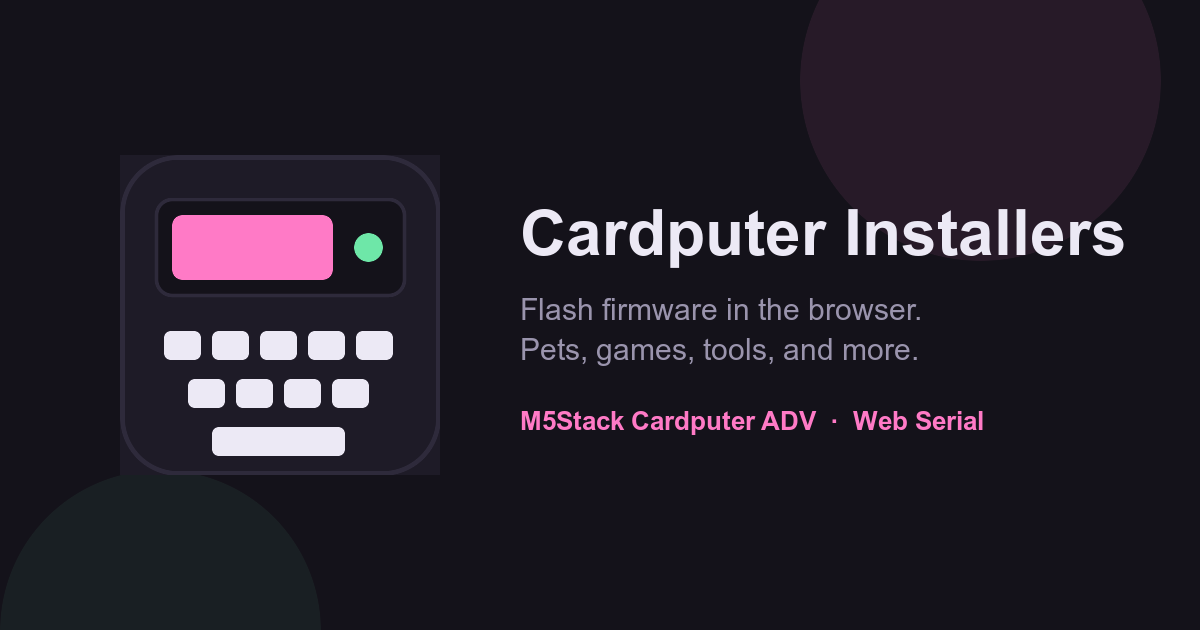
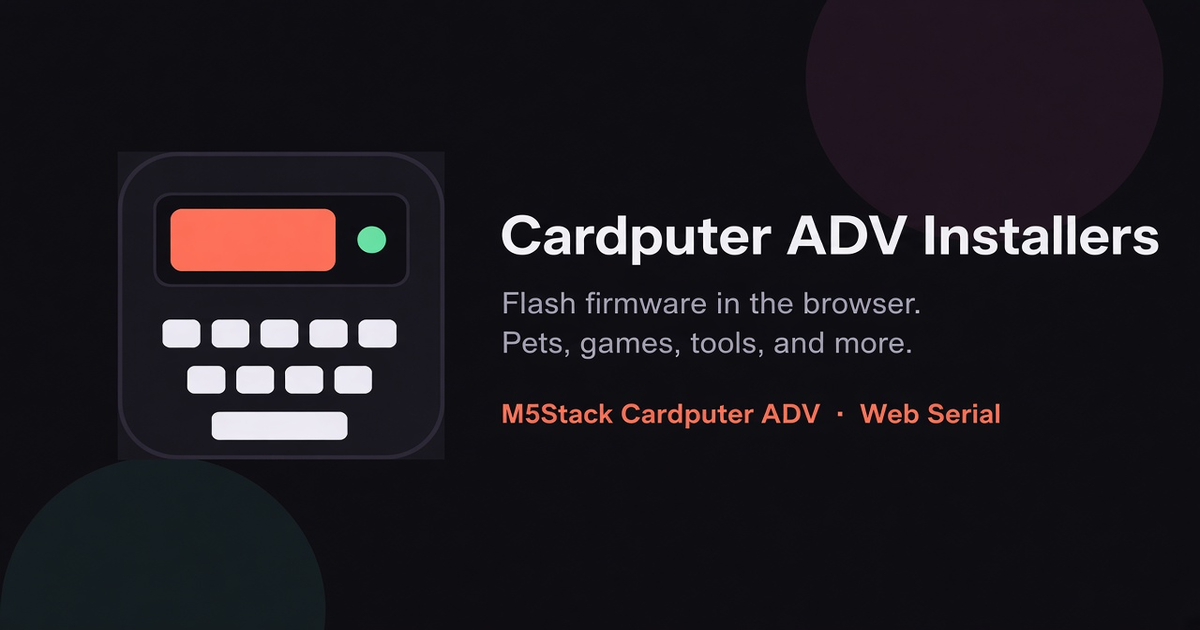
polish: align sharing meta and OG with ADV naming (#47)
Match title, Open Graph, Twitter cards, README, and og.png to the on-page Cardputer ADV Installers brand.

diff --git a/index.html b/index.html
@@ -3,22 +3,22 @@
 <head>
 <meta charset="utf-8">
 <meta name="viewport" content="width=device-width, initial-scale=1">
-<title>Cardputer Installers</title>
+<title>Cardputer ADV Installers</title>
 <meta name="description" content="Flash firmware onto an M5Stack Cardputer ADV from the browser — pets, games, tools, music, mesh, and more. No M5Burner required.">
 <meta name="theme-color" content="#141414">
 <link rel="icon" href="favicon.svg" type="image/svg+xml">
 <link rel="icon" href="favicon.ico" sizes="32x32">
 <link rel="apple-touch-icon" href="apple-touch-icon.png">
 <meta property="og:type" content="website">
-<meta property="og:site_name" content="Cardputer Installers">
-<meta property="og:title" content="Cardputer Installers">
+<meta property="og:site_name" content="Cardputer ADV Installers">
+<meta property="og:title" content="Cardputer ADV Installers">
 <meta property="og:description" content="Flash firmware onto an M5Stack Cardputer ADV from the browser — pets, games, tools, music, mesh, and more.">
 <meta property="og:image" content="https://cardputer-installers.netlify.app/og.png">
 <meta property="og:image:width" content="1200">
 <meta property="og:image:height" content="630">
 <meta property="og:url" content="https://cardputer-installers.netlify.app/">
 <meta name="twitter:card" content="summary_large_image">
-<meta name="twitter:title" content="Cardputer Installers">
+<meta name="twitter:title" content="Cardputer ADV Installers">
 <meta name="twitter:description" content="Flash firmware onto an M5Stack Cardputer ADV from the browser — pets, games, tools, music, mesh, and more.">
 <meta name="twitter:image" content="https://cardputer-installers.netlify.app/og.png">
 <style>

diff --git a/README.md b/README.md
@@ -1,4 +1,4 @@
-# Cardputer Installers
+# Cardputer ADV Installers
 
 A one-page browser installer for the [M5Stack Cardputer ADV](https://docs.m5stack.com/en/core/Cardputer-Adv) (ESP32-S3, 8 MB flash). Open `index.html` in Chrome or Edge, plug the Cardputer in over USB-C, and click **Install**.
 
